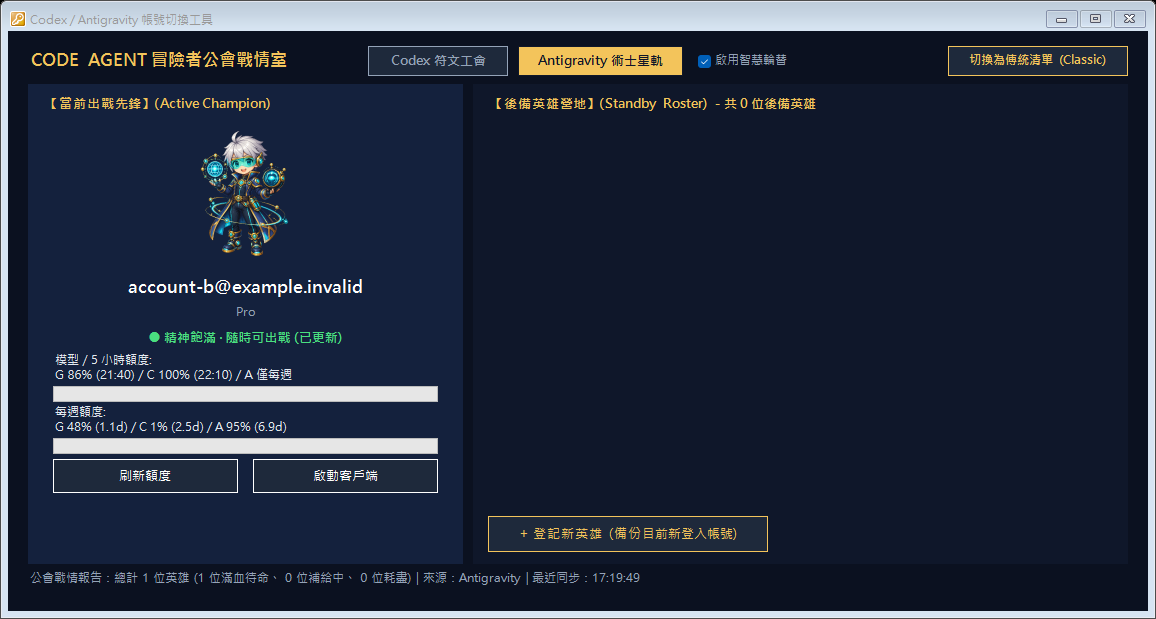
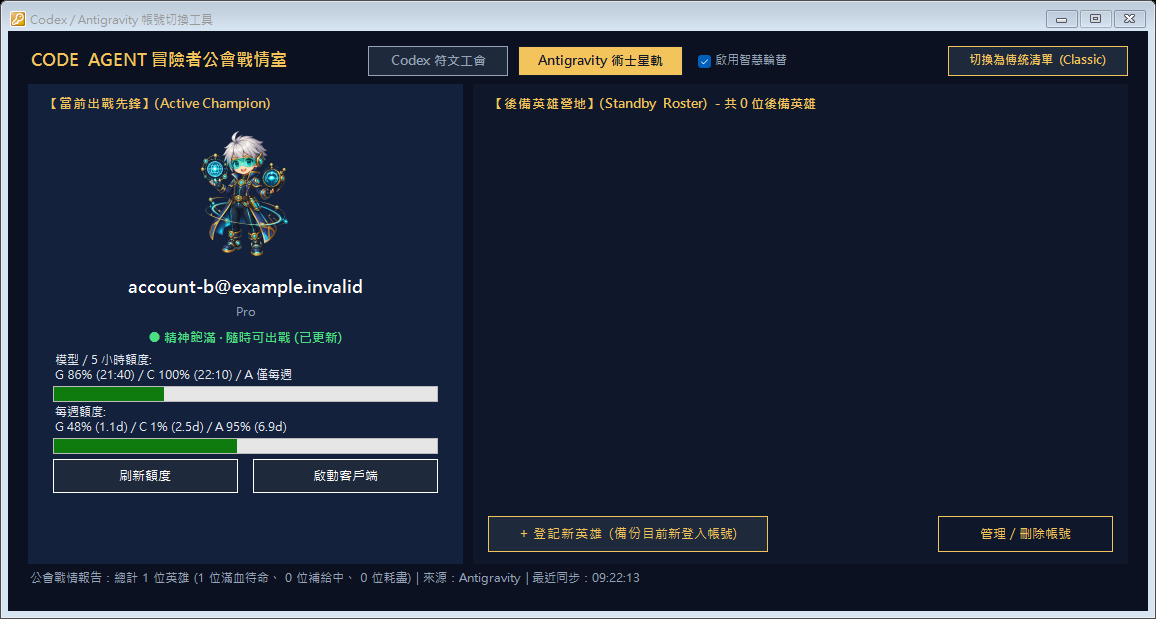
docs: 更新 README、架構規格與介面預覽圖以符合程式現況

diff --git a/README.md b/README.md
@@ -28,12 +28,12 @@
    - API key 帳號可分別設定加密保存的 Admin API key、USD 每月預算及重置日期時間，非同步顯示本期已用金額與預算剩餘估算。
    - Antigravity 分頁顯示 Gemini、Claude/GPT、Argon 三種額度及各自的重置時間；兩分頁均只顯示帳號，不重複顯示名稱。過期的存取權杖只在記憶體中刷新，不改寫登入項目或備份。
 7. **雙風格介面：傳統清單 vs 冒險者公會戰情室 (Guild Cockpit View)**：
-   - **傳統清單模式**：高資訊密度、經典 Windows 表格、支援右鍵選單快速切換與管理。
+   - **傳統清單模式**：高資訊密度、經典 Windows 表格，透過下方功能按鈕執行帳號切換、新增 API key、預算設定與刪除管理。
    - **公會戰情室模式**：視覺化桌面儀表板，將各帳號具象化為英雄幹員（Codex 符文騎士、Antigravity 星軌工匠等），具備精力充沛/疲憊/竭盡等動態像素立繪。
    - **先鋒主將卡片**：醒目展示當前執勤帳號、五小時與週用量雙能量條、即時狀態與重置倒數。
-   - **後備名冊卡片流**：水平卡片列出所有後備帳號，點擊任一後備卡片即可立即無縫切換執勤。
+   - **後備名冊卡片流**：垂直捲動卡片列出所有後備帳號，點擊卡片上的「**召喚出戰**」即可立即無縫切換執勤。
    - **智慧輪替控制**：
-     - 提供開關核取方塊（可隨時啟用或關閉自動建議）。
+     - 提供「**啟用智慧輪替**」核取方塊，控制是否顯示主將區的「**智慧輪替：換最高戰力出戰**」按鈕，手動一鍵切換至剩餘比例最高的後備帳號。
      - 單帳號保護：當該來源帳號數 $\le 1$ 時，自動隱藏輪替操作項。
      - 嚴格來源隔離：Codex 僅在 Codex 帳號池間切換；Antigravity 僅在 Antigravity 帳號池間切換，嚴禁跨來源互換。
 
@@ -67,9 +67,11 @@
 │   ├── Launcher.cs              # 靜默無命令提示字元視窗之 C# 啟動器
 │   ├── Installer.cs             # 自包含 GUI 安裝精靈原始碼
 │   ├── Install.bat              # 免安裝版一鍵安裝捷徑腳本
-│   └── Uninstall.bat            # 乾淨解除安裝腳本
+│   ├── Uninstall.bat            # 乾淨解除安裝腳本
+│   └── app.ico                  # 應用程式與捷徑金鑰匙圖示
 ├── tests/                       # 自動化測試套件
-│   └── Run-SelfTest.ps1         # 核心邏輯自我驗證執行腳本
+│   ├── Run-SelfTest.ps1         # 核心邏輯與全套回歸測試執行腳本
+│   └── *.Tests.ps1              # 身分識別、額度、計費、UI 與 Web 儀表板專項測試
 ├── .env.example                 # 環境變數設定範本
 ├── .gitignore                   # 嚴格機敏資料過濾防護
 ├── docker-compose.yml           # 容器化審計與測試環境設定
@@ -97,7 +99,7 @@
 
 ![冒險者公會戰情室 - Codex 符文工會模式](preview_guild.png)
 
-- **切換至公會戰情室**：點擊任一分頁右上角青色高亮的「**切換公會戰情室 (Guild)**」按鈕，立即展開沉浸式像素英雄戰情面板。
+- **切換至公會戰情室**：點擊 Codex 或 Antigravity 分頁右上角「**切換公會戰情室 (Guild)**」按鈕，立即展開沉浸式像素英雄戰情面板。
 - **切換回傳統清單**：在公會戰情室頂部右上角點擊「**切換為傳統清單 (Classic)**」，隨時返回高資訊密度表格。
 - **即時連動**：切換風格不會影響背景的非同步額度查詢排程，兩套介面共享同一資料模型與切換核心。
 
@@ -180,7 +182,7 @@ Antigravity 分頁以 `G` 表示 Gemini、`C` 表示 Claude/GPT、`A` 表示 Arg
 
 額度直接使用帳號的存取權杖向 Google `daily-cloudcode-pa.googleapis.com/v1internal:retrieveUserQuotaSummary` 查詢；方案使用 `loadCodeAssist`。請求的 `User-Agent` 使用桌面版 `hub` 識別，帶入已安裝 `Antigravity.exe` 的檔案版本及 Windows 架構（`antigravity/hub/<版本> windows/<架構>`）；本機對照實查確認，缺少 `hub` 會使服務省略 Argon。每次額外呼叫同一主機的 `fetchAvailableModels` 以偵測 Argon；即使 Gemini／Claude 摘要完整也不略過。Argon 模型與一般 Gemini 隔離，只採明確回傳且介於 0 至 1 的 `quotaInfo.remainingFraction` 與對應 `resetTime`，不將缺漏資料補為 100%。過期時使用備份內的刷新權杖與已安裝 Antigravity 程式中的 OAuth 用戶端設定，在記憶體中取得新存取權杖。此流程不需 CLI，也不修改備份或目前登入。這些是 Antigravity 內部端點與程式設定，版本更新後可能改變；查詢失敗會顯示狀態，不影響切換。四個真實備份帳號已驗證 Gemini 與 Claude/GPT 的五小時及每週額度；改用 `hub` 識別後，其中三個帳號已取得真實 Argon 每週比例及重置時間，另一帳號未回傳。兩個真實帳號也已驗證免瀏覽器重登切換與引導登入，工作區及對話仍保留。
 
-新版首次啟動會驗證 `%LOCALAPPDATA%\CodexAccountSwitcher` 的舊版 Codex 加密備份，將尚未存在的帳號複製到 `%LOCALAPPDATA%\CodexAntigravitySwitcher`。舊版原件保留；若新版已有同一帳號的備份，不覆寫新版資料。桌面與開始功能表捷徑使用舊版相同的金鑰圖示。
+新版首次啟動會驗證 `%LOCALAPPDATA%\CodexAccountSwitcher` 的舊版 Codex 加密備份，將尚未存在的帳號複製到 `%LOCALAPPDATA%\CodexAntigravitySwitcher`。舊版原件保留；若新版已有同一帳號的備份，不覆寫新版資料。桌面與開始功能表捷徑優先使用內附的 `app.ico` 金鑰匙圖示，找不到時才退回系統 `shell32.dll,44` 金鑰圖示。
 
 若需在不讀取已安裝版 Codex 帳號的情況下測試 Antigravity，可從原始碼以 `-IsolatedAntigravityTestPath` 指定獨立資料目錄；此模式會停用 Codex 分頁，Antigravity 仍使用目前 Windows 使用者的真實登入項目。
 
@@ -198,17 +200,17 @@ Antigravity 分頁以 `G` 表示 Gemini、`C` 表示 Claude/GPT、`A` 表示 Arg
 ![遠端副機控制台](preview_web.png)
 
 1. **啟動 Web 儀表板**：
-   - 切換至「**遠端副機 (Web)**」分頁（或在 Codex 分頁點擊「🌐 遠端副機 / Web」快速跳轉）。
-   - 設定監聽 Port（預設 `8998`），點擊「**▶ 啟動 Web 儀表板**」。
+   - 切換至「**遠端副機 (Web)**」分頁。
+   - 設定監聽 Port（預設 `8998`），點擊「**▶ 啟動服務**」。
    - 工具會自動生成一組 6 碼隨機動態驗證碼（例如 `839201`），並顯示服務網址（例如 `http://192.168.1.168:8998`）。
 2. **副機 SSH 連線設定**：
    - 預設目標副機為 `192.168.1.195`、SSH 帳號 `vince`、連接埠 `22`、目標路徑 `~/.codex/auth.json`。
-   - 點擊「**⚡ 測試副機 SSH 連線**」可即時驗證免密碼金鑰通道是否就緒。
+   - 點擊「**測試副機 SSH 連線**」可即時驗證免密碼金鑰通道是否就緒。
 3. **遠端瀏覽器切換操作**：
    - 在 CentOS 8 或同網段任意裝置的瀏覽器開啟 `http://192.168.1.168:8998`。
    - 輸入主機顯示的 6 碼 PIN 解鎖戰情儀表板。
-   - **防衝突保護**：正在主機執勤中的帳號會自動顯示 `🔒 主機使用中（鎖定保護）`，切換按鈕強制反灰禁止點擊。
-   - 點選其他任一後備帳號的「🚀 切換至 CentOS 副機」，主機即刻經由 SSH 安全通道將解密後之 `auth.json` 推送至副機並原子覆蓋。
+   - **防衝突保護**：正在主機執勤中的帳號會自動顯示 `🔒 主機使用中（鎖定保護，禁止副機切換）`，切換按鈕反灰顯示「已在主機執勤」並禁止點擊。
+   - 點選其他任一非主機使用中帳號的「🚀 切換至 CentOS 副機」，主機即刻經由 SSH 安全通道先結束副機既有 Codex Desktop 程序、將解密後之 `auth.json` 原子覆蓋至副機（目錄 `700`／檔案 `600`），並自動重新喚起副機 Codex Desktop。
 
 ---
 
@@ -225,7 +227,7 @@ powershell.exe -NoProfile -ExecutionPolicy Bypass -File .\tests\Run-SelfTest.ps1
 ## 🔒 資安宣告（Security Policy）
 
 * 本專案遵循 **Zero-Credential Policy**，原始碼與版本控制歷史中**絕不包含**任何真實使用者權杖 (`auth.json`)、DPAPI 加密金鑰檔 (`*.bin`)、個人電子郵件或操作日誌 (`*.log`)。
-* 帳號切換於本機進行原子檔案置換；額度查詢直接連線 OpenAI，不架設中繼伺服器。備份與工作區不會因查詢失敗而刪除。
+* 帳號切換於本機進行原子檔案置換；額度與費用查詢直接連線 OpenAI（及 Antigravity 對應 Google 服務端點），不架設中繼伺服器。備份與工作區不會因查詢失敗而刪除。
 
 ---
 

diff --git a/docs/spec/architecture.md b/docs/spec/architecture.md
@@ -14,7 +14,10 @@ flowchart TD
     Switcher --> ProcessMgr["Process Manager (優雅關閉與重啟 Desktop)"]
     Switcher --> GuidedLogin["Guided Login (codex login)"]
     Switcher --> Quota["Codex HttpClient 非同步用量 GET"]
+    Switcher --> Billing["CodexBilling.ps1 (API 預算與費用 GET)"]
     Switcher --> AuthTarget["Target: %USERPROFILE%/.codex/auth.json"]
+    Switcher --> Guild["GuildView.ps1 (公會戰情室視圖)"]
+    Switcher --> Web["WebDashboard.ps1 + index.html (遠端切換)"]
     Switcher --> AG["AntigravityCredential.ps1"]
     Switcher --> AGQuota["AntigravityQuota.ps1 非同步用量 POST"]
     AG --> CredMan["Windows Credential Manager: gemini:antigravity"]
@@ -39,6 +42,12 @@ flowchart TD
 6. **Antigravity 額度 (`AntigravityQuota.ps1`)**：
    - 以已儲存帳號的存取權杖查詢 Gemini、Claude/GPT、Argon 三組額度與方案；每次查詢模型以偵測 Argon，摘要優先，缺少時以同組模型補充，明示來源及未提供的視窗。
    - 存取權杖過期時，僅在記憶體中以刷新權杖換發；OAuth 用戶端設定取自已安裝的 Antigravity 程式，不寫入原始認證或備份。
+7. **API 費用與預算 (`CodexBilling.ps1`)**：
+   - 以 DPAPI CurrentUser 獨立加密儲存各 API key 帳號的 Admin API key、USD 每月預算、自訂重置日／時／分、設定時區與查詢範圍，並非同步查詢 `GET /v1/organization/costs` 估算當期已用金額與剩餘預算。
+8. **公會戰情室 (`GuildView.ps1`)**：
+   - 提供與傳統清單共享資料模型與切換核心的沉浸式英雄戰情介面，呈現先鋒主將、後備名冊卡片流、動態像素立繪與手動智慧輪替控制，並將介面偏好保存於 `ui-pref.json`。
+9. **遠端 Web 儀表板 (`WebDashboard.ps1` / `src/assets/web/index.html`)**：
+   - 在本機啟動含 6 碼動態 PIN 驗證的 HTTP 服務，提供區網瀏覽器檢視 Codex 帳號狀態，並以防衝突鎖定保護避免搶佔主機使用中帳號，經由 OpenSSH/SCP 將目標 `auth.json` 原子派送至 CentOS 8 副機並重啟副機端程序。
 
 ---
 
@@ -55,7 +64,7 @@ flowchart TD
 | **獨立測試** | `-IsolatedAntigravityTestPath` 將備份及日誌放在指定目錄，停用 Codex 分頁並避免讀取既有 Codex 登入檔；Antigravity 認證目標仍為目前使用者的真實項目。 |
 
 新版安裝目錄、捷徑與 Windows 解除安裝項目另設名稱，與既有 `CodexAccountSwitcher` 安裝並存。執行中的 Codex 視窗仍使用相同單一實例鎖，避免兩套工具同時切換同一個 `auth.json`。
-新版桌面與開始功能表捷徑沿用舊版的 `shell32.dll,44` 金鑰圖示。
+新版桌面與開始功能表捷徑優先使用套件內的 `app.ico` 金鑰匙圖示，若該檔案不存在則退回 `shell32.dll,44`。
 
 ## 4. 帳號唯一性
 
